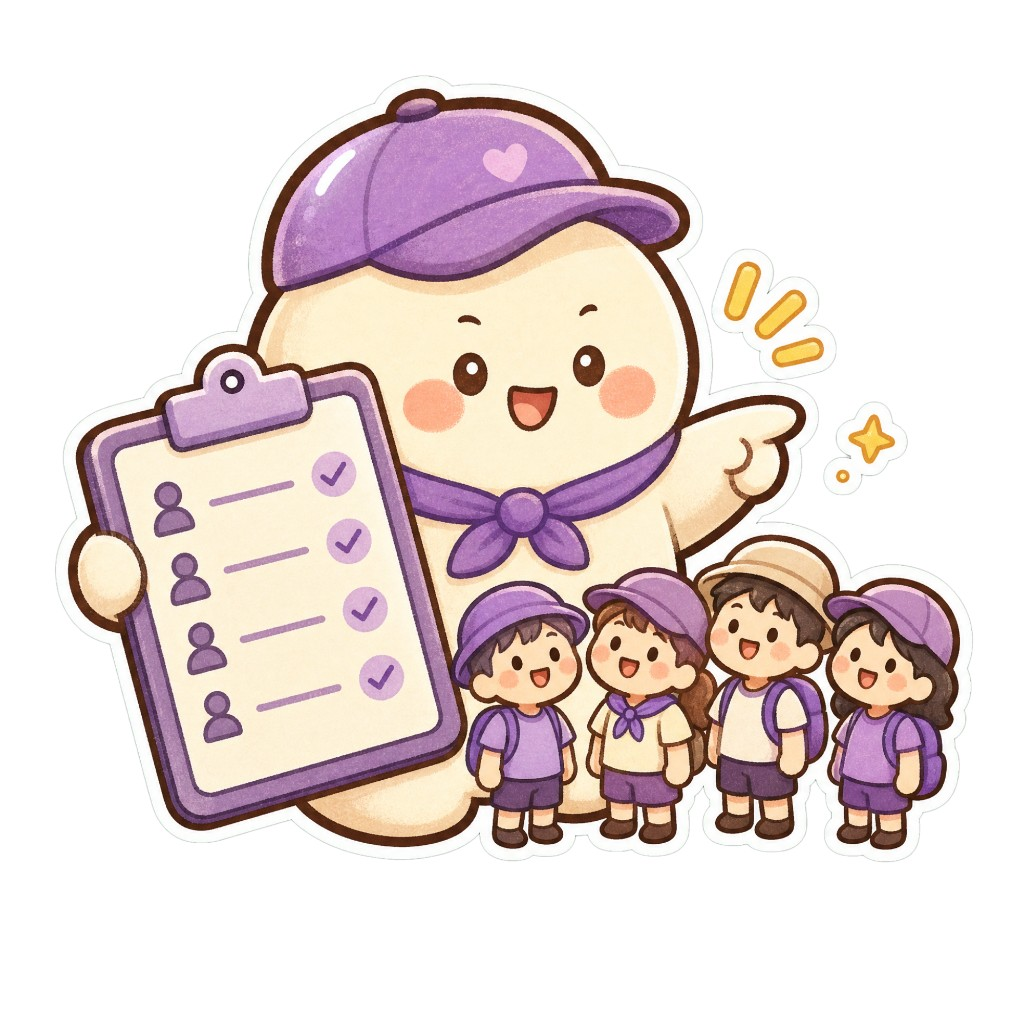
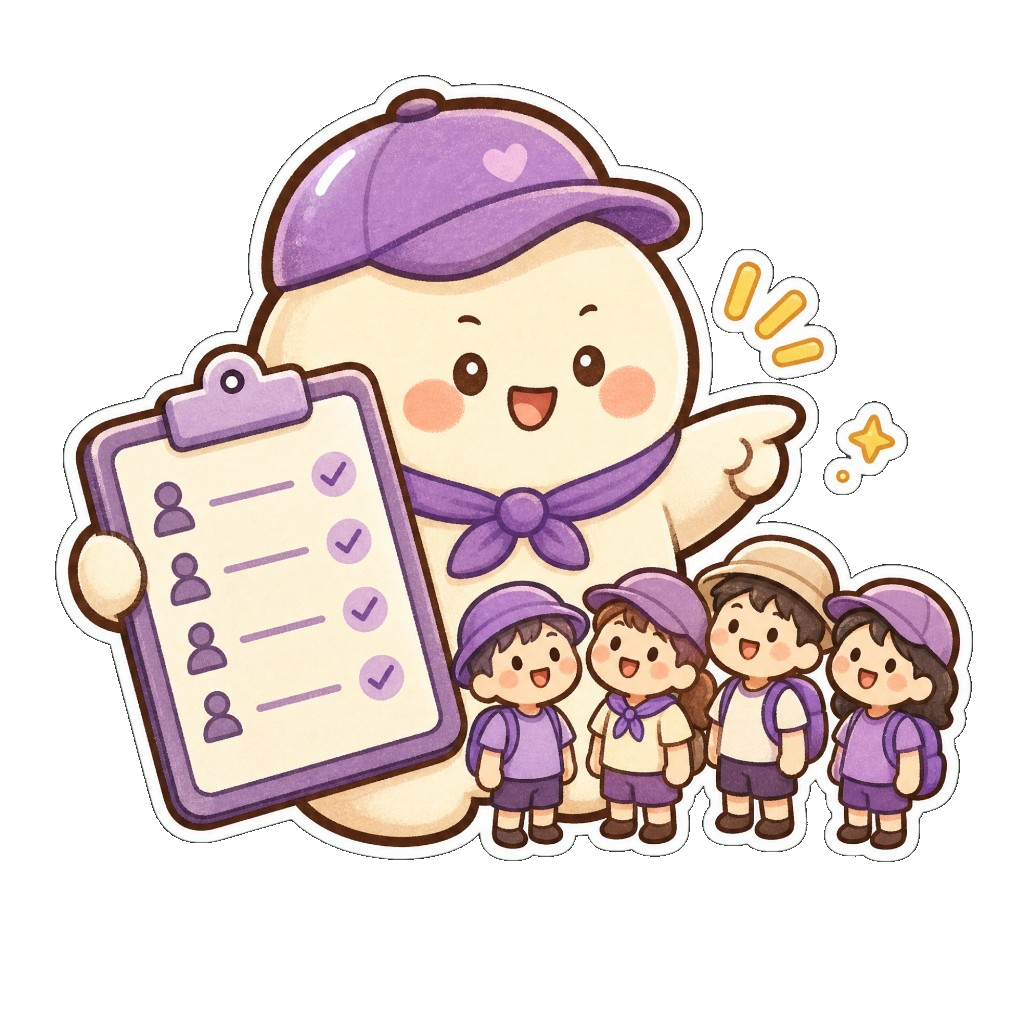
換上透明背景獎項貼圖
將新貼圖去黑底轉為真正透明 PNG，避免深色配件被誤裁。

Changed region(s): [[0.7812, 0.7812, 0.8125, 0.8125], [0.75, 0.25, 0.7812, 0.2812]]

diff --git a/index.html b/index.html
@@ -15,7 +15,7 @@
   <link rel="manifest" href="manifest.json">
   <link rel="apple-touch-icon" href="assets/heart.png">
   <link rel="preload" href="fonts/CanvaHandwritingStyleTC.woff2" as="font" type="font/woff2" crossorigin>
-  <link rel="stylesheet" href="styles.css?v=20260821v14">
+  <link rel="stylesheet" href="styles.css?v=20260821v15">
 </head>
 <body>
 
@@ -1048,6 +1048,6 @@
     </div>
   </section>
 
-  <script type="module" src="app.js?v=20260821v14"></script>
+  <script type="module" src="app.js?v=20260821v15"></script>
 </body>
 </html>
